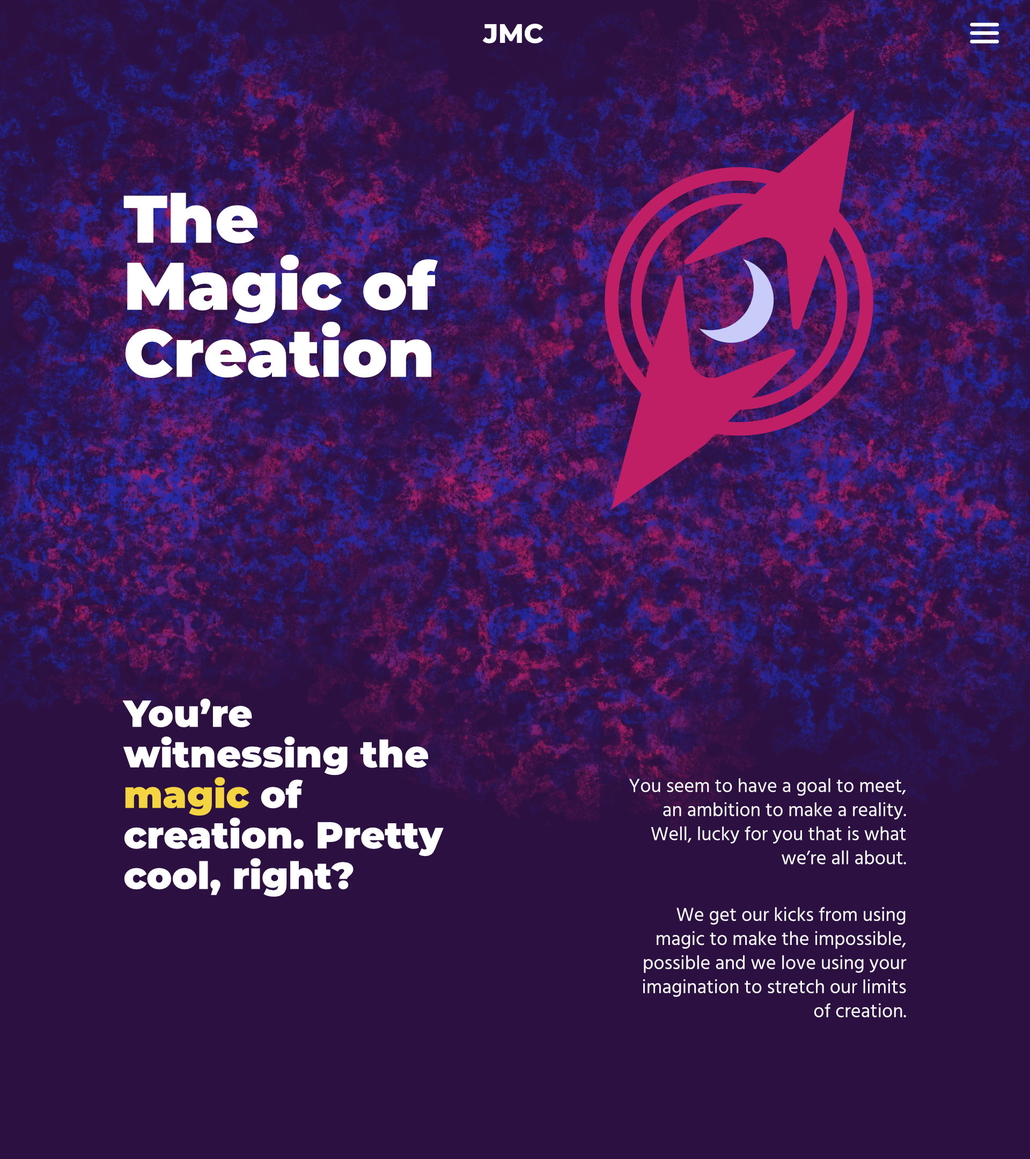
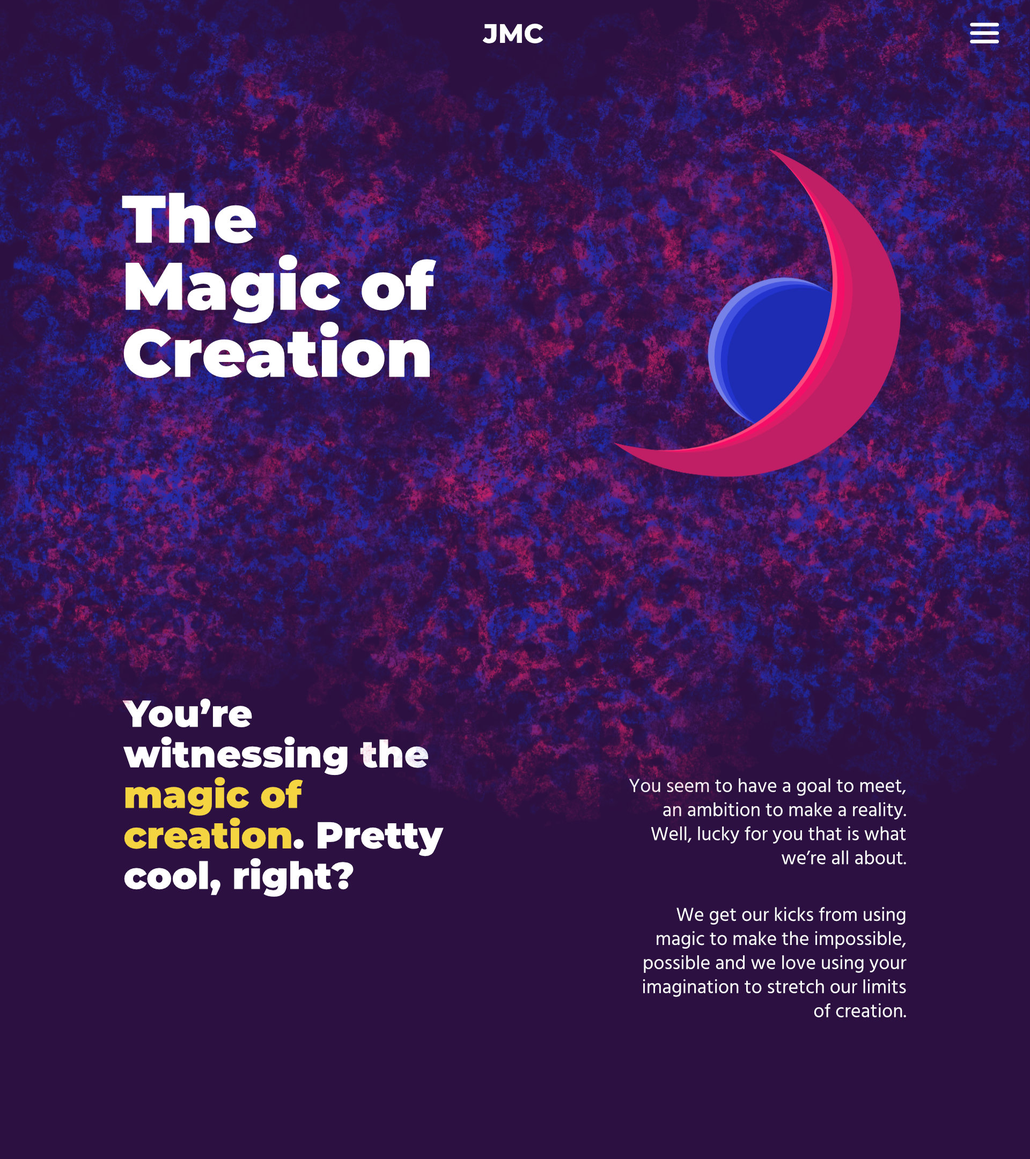
Push #15
>Started developing grid for header and nav

diff --git a/index.html b/index.html
@@ -9,9 +9,14 @@
   </head>
 
   <body>
-    <header>
-      <nav>
-        <a href="index.html">JMC</a>
+    <div class="creation_framework">
+
+      <header class="header_framework">
+        <nav class="nav_framework">
+          <a class="logo" href="index.html">JMC</a>
+          <span class="nav_icon" onclick="openNav()">&#9776;</span>
+        </nav>
+
         <div id="myNav" class="overlay">
           <a href="javascript:void(0)" class="closebtn" onclick="closeNav()">&times;</a>
           <nav class="overlay-content">
@@ -20,85 +25,108 @@
             <a href="site-plan.html">Site Plan</a>
           </nav>
         </div>
-      </nav>
-
-      <span style="font-size:30px;cursor:pointer" onclick="openNav()">&#9776;</span> <!--remove CSS and add to style.css | Give its own class-->
-      <h1>The Magic of Creation</h1>
-    </header>
-    
-    <main>
-      <section>
-        <h2>You’re witnessing the magic of creation. Pretty cool, right?</h2>
-
-        <p>You seem to have a goal to meet, an ambition to make a reality.
-        Lucky for you, that is is what we're all about.</p>
-
-        <p>We get our kicks from using magic to make the impossible, 
-          possible and we love using your imagination to stretch our limits of creation.</p>
-      </section>
-
-      <section>
-        <h2>We know it can be difficult to know where to look to get your goals and deadlines met.</h2>
-
-        <p>We have felt that way before too. 
-          Everyone says they can do it, but they lack one important thing... the magic of creation. 
-          Lucky for you, that is our foundation and guiding principles to make great products for the ambitious.</p>
-
-        <p>Just Magically Creative is a multi-disciplinary studio, which does it all. 
-          We do everything from brand design to complex installations. 
-          Basicially, we are saying we enjoy bending reality as a career and you get to be the crux in our endeavors.</p>
         
-        <h2>Types of Work:</h2>
-        <ul>
-          <li>Installations</li>
-          <li>Brand & Strategy</li>
-          <li>Web Development</li>
-          <li>UI & UX</li>
-          <li>Concept Design</li>
-          <li>VR & AR</li>
-          <li>Animation</li>
-          <li>Illustration</li>
-          <li>AI Learning</li>
-          <li>Video Production</li>
-        </ul>
-        <button>View Our Work ></button>
-      </section>
-
-      <section>
-        <h3>Contact Us!</h3>
-      </section>
-    </main>
-
-    <footer>
-      <hr>
-      <p>&copy; Copyright 2021 - JMC - Just Magically Creative</p>
-      <div class="social">
-        <a href="https://www.facebook.com" target="_blank"
-          ><img
-            src="https://cdn.glitch.com/251f12ae-0e34-493d-8ba4-8e4f9a8d5441%2Ffacebook.png?v=1611855583866"
-            alt="Facebook"
-        /></a>
-        <a href="https://www.instagram.com" target="_blank"
-          ><img
-            src="https://cdn.glitch.com/251f12ae-0e34-493d-8ba4-8e4f9a8d5441%2Finstagram.png?v=1611855580518"
-            alt="Instagram"
-        /></a>
-        <a href="https://www.youtube.com" target="_blank"
-          ><img
-            src="https://cdn.glitch.com/251f12ae-0e34-493d-8ba4-8e4f9a8d5441%2Fyoutube.png?v=1611855576783"
-            alt="YouTube"
-        /></a>
-      </div>
-    </footer>
-    <script>
-      function openNav() {
-        document.getElementById("myNav").style.width = "100%";
-      }
+        <h1>The Magic of Creation</h1>
+        <img class="header_img" src="images/Shard of Creation.png" alt="Shard of Creation">
+      </header>
       
-      function closeNav() {
-        document.getElementById("myNav").style.width = "0%";
-      }
-    </script>
+      <main>
+        <section>
+          <h2>You’re witnessing the magic of creation. Pretty cool, right?</h2>
+
+          <p>You seem to have a goal to meet, an ambition to make a reality.
+          Lucky for you, that is is what we're all about.</p>
+
+          <p>We get our kicks from using magic to make the impossible, 
+            possible and we love using your imagination to stretch our limits of creation.</p>
+        </section>
+
+        <section>
+          <h2>We know it can be difficult to know where to look to get your goals and deadlines met.</h2>
+
+          <p>We have felt that way before too. 
+            Everyone says they can do it, but they lack one important thing... the magic of creation. 
+            Lucky for you, that is our foundation and guiding principles to make great products for the ambitious.</p>
+
+          <p>Just Magically Creative is a multi-disciplinary studio, which does it all. 
+            We do everything from brand design to complex installations. 
+            Basicially, we are saying we enjoy bending reality as a career and you get to be the crux in our endeavors.</p>
+          
+          <img src="images/DisplayWork.png" alt="Display Work">
+
+          <h2>Types of Work:</h2>
+          <ul>
+            <li>Installations</li>
+            <li>Brand & Strategy</li>
+            <li>Web Development</li>
+            <li>UI & UX</li>
+            <li>Concept Design</li>
+            <li>VR & AR</li>
+            <li>Animation</li>
+            <li>Illustration</li>
+            <li>AI Learning</li>
+            <li>Video Production</li>
+          </ul>
+          <button>View Our Work ></button>
+        </section>
+
+        <section>
+          <h3>Contact Us!</h3>
+          <p>We love hearing from people like you!</p>
+          <div id="feedback"></div>
+          <form name="contactexample" action="/my-handling-form-page" method="post">
+            <ul>
+              <li>
+                <label for="name">Name:</label>
+                <input type="text" id="name" name="users_name">
+              </li>
+              <li>
+                <label for="mail">E-mail:</label>
+                <input type="email" id="mail" name="users_email">
+              </li>
+              <li>
+                <label for="msg">Message:</label>
+                <textarea id="msg" name="users_message"></textarea>
+              </li>
+              <li class="button">
+                <button type="submit">Submit</button>
+              </li>
+          </ul>
+        </form>
+        </section>
+      </main>
+
+      <footer>
+        <hr>
+        <p>&copy; Copyright 2021 - JMC - Just Magically Creative</p>
+        <div class="social">
+          <a href="https://www.facebook.com" target="_blank"
+            ><img
+              src="https://cdn.glitch.com/251f12ae-0e34-493d-8ba4-8e4f9a8d5441%2Ffacebook.png?v=1611855583866"
+              alt="Facebook"
+          /></a>
+          <a href="https://www.instagram.com" target="_blank"
+            ><img
+              src="https://cdn.glitch.com/251f12ae-0e34-493d-8ba4-8e4f9a8d5441%2Finstagram.png?v=1611855580518"
+              alt="Instagram"
+          /></a>
+          <a href="https://www.youtube.com" target="_blank"
+            ><img
+              src="https://cdn.glitch.com/251f12ae-0e34-493d-8ba4-8e4f9a8d5441%2Fyoutube.png?v=1611855576783"
+              alt="YouTube"
+          /></a>
+        </div>
+      </footer>
+      <script>
+        function openNav() {
+          document.getElementById("myNav").style.width = "100%";
+        }
+        
+        function closeNav() {
+          document.getElementById("myNav").style.width = "0%";
+        }
+      </script>
+    </div>
   </body>
 
 </html>

diff --git a/style.css b/style.css
@@ -1,19 +1,68 @@
-/* Fonts from Google Fonts - more at https://fonts.google.com */
-@import url('https://fonts.googleapis.com/css?family=Open+Sans:400,700');
-@import url('https://fonts.googleapis.com/css?family=Merriweather:400,700');
+@import url('https://fonts.googleapis.com/css2?family=Hind:wght@400;700&family=Montserrat:wght@300;400;700;800;900&display=swap');
+
+html, body, div, h1, h2, h3, h4, h5, h6, p,
+a, ol, ul, li, form, table, article, aside, 
+figure, figcaption, footer, header, nav, section {
+	margin: 0;
+	padding: 0;
+	border: 0;
+	font-size: 100%;
+}
 
 body {
-  background-color: white;
-  font-family: "Open Sans", sans-serif;
-  padding: 5px 25px;
-  font-size: 18px;
-  margin: 0;
-  color: #444;
+  background-color: #2C1041;
+  color: white;
+}
+
+.creation_framework {
+  margin-left: 10%;
+  margin-right: 10%;
+}
+
+header.header_framework {
+  display: grid;
+  grid-template-columns: repeat(6, 1fr);
+  grid-template-rows: 60px repeat(6, 1fr);
+  height: 100vh;
 }
 
 h1 {
-  font-family: "Merriweather", serif;
-  font-size: 32px;
+  grid-column: 1/3;
+  grid-row: 4/6;
+  font-family: "Montserrat", sans-serif;
+  font-weight: 900;
+  font-size: 5.2em;
+}
+
+img.header_img {
+  grid-column: 5/7;
+  grid-row: 3/6;
+  width:100%;
+}
+
+nav.nav_framework {
+  grid-column: 1/7;
+  grid-row: 1;
+  display: grid;
+  grid-template-columns: repeat(7, 1fr);
+}
+
+a.logo {
+  grid-column: 4/5;
+  justify-self: center;
+  align-self: center;
+  font-family: "Montserrat", sans-serif;
+  font-weight: 800;
+  font-size: 1.8em;
+  color: white;
+}
+
+span.nav_icon {
+  grid-column: 7/8;
+  justify-self: right;
+  align-self: center;
+  font-size: 2em;
+  cursor: pointer
 }
 
 /* Note: Build site on 7 columns*/
